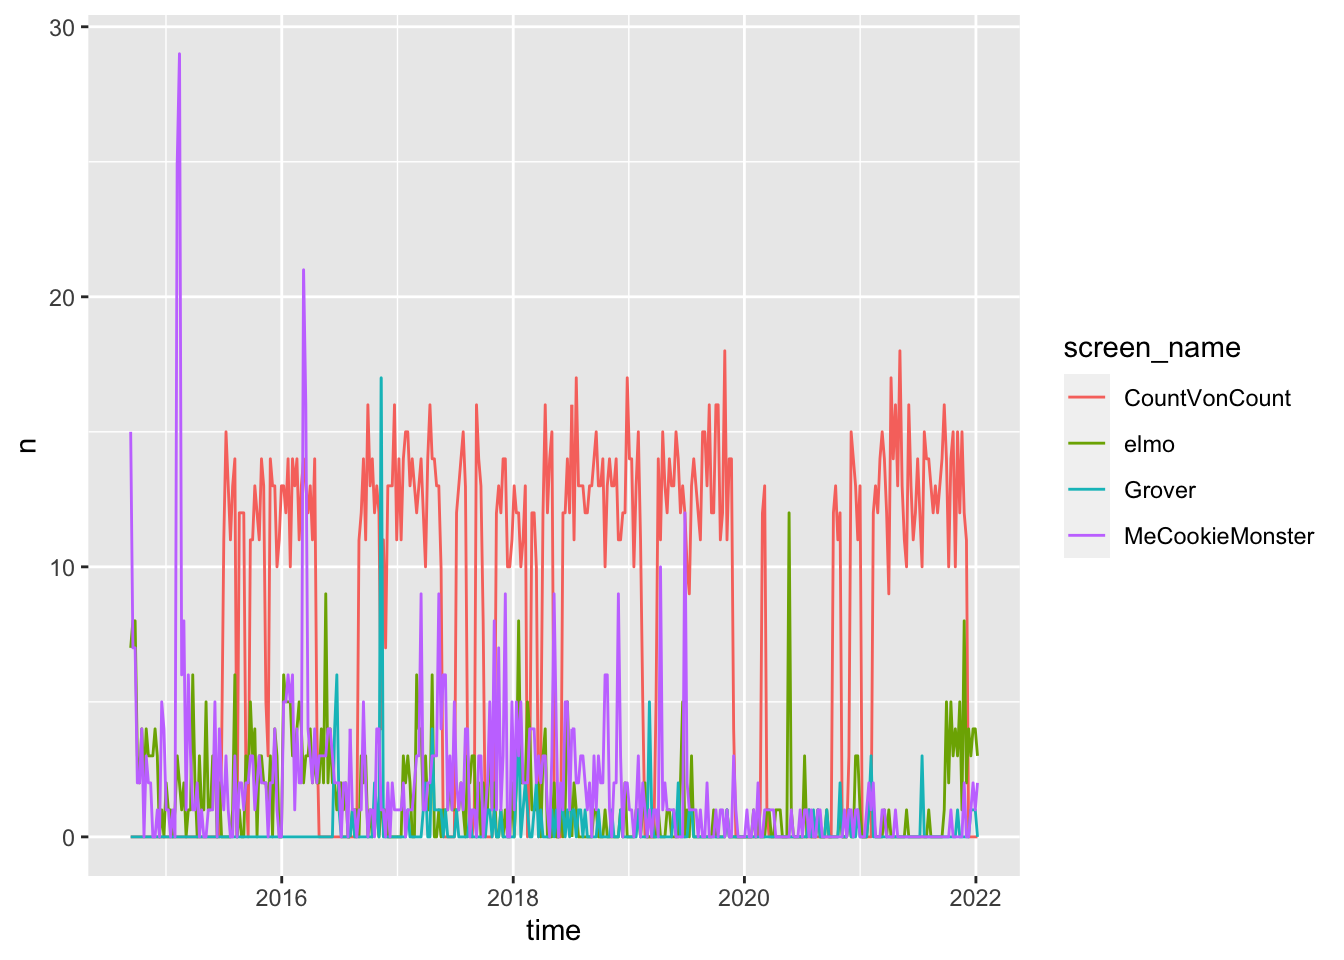
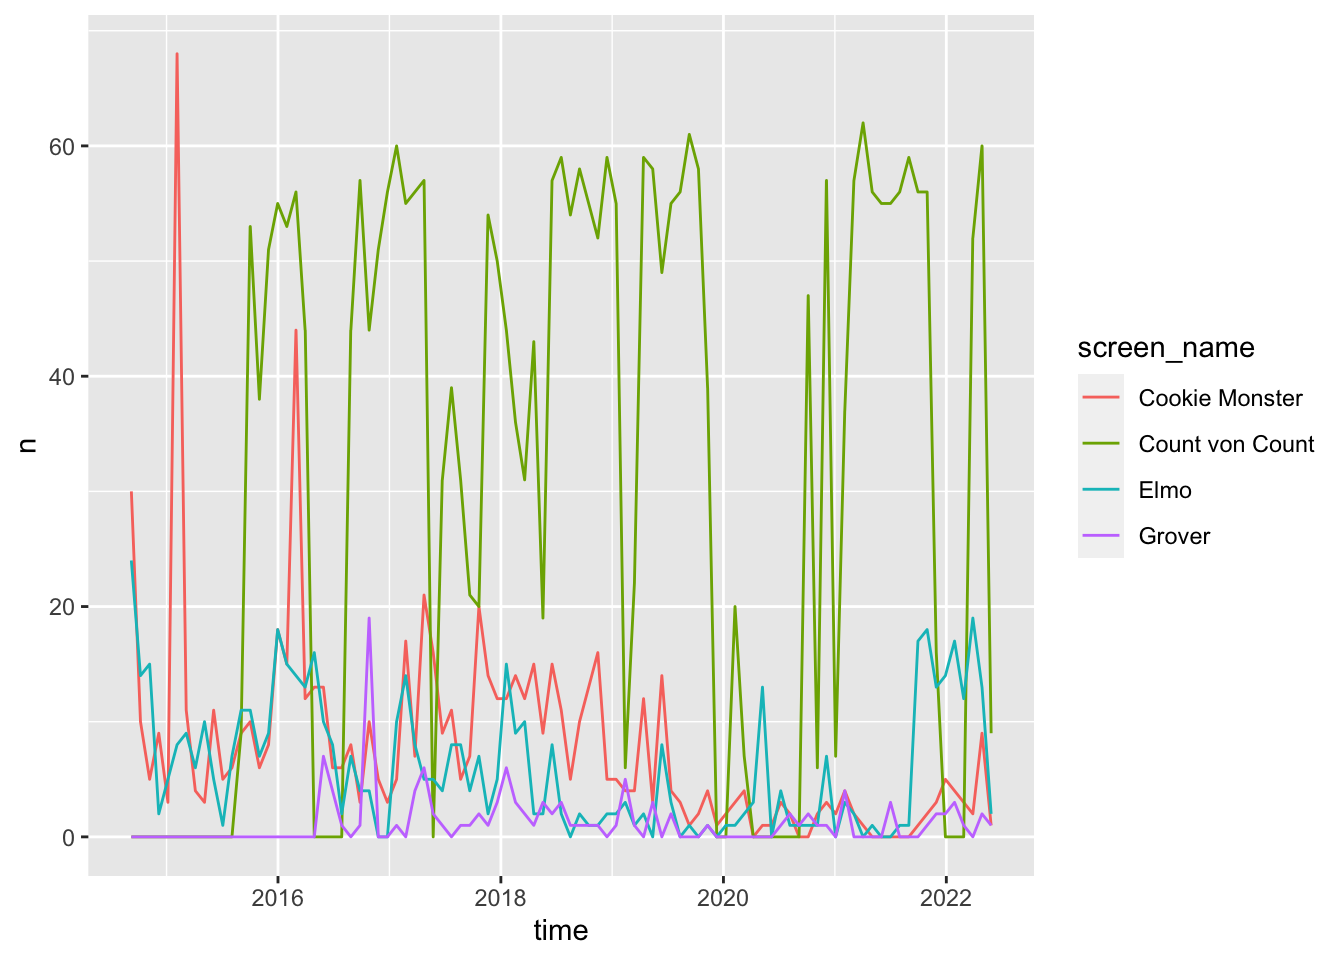
Fix twitter example on intro slides for new rtweet version

diff --git a/static/slides/introduction-to-computing-for-the-social-sciences/index.html b/static/slides/introduction-to-computing-for-the-social-sciences/index.html
@@ -11,8 +11,12 @@
     <textarea id="source">
 class: center, middle, inverse, title-slide
 
+.title[
 # Introduction to Computing for the Social Sciences
+]
+.author[
 ### MACS 30500 <br /> University of Chicago
+]
 
 ---
 
@@ -398,14 +402,20 @@ class: middle
 ```r
 library(tidyverse)
 library(rtweet)
-data &lt;- get_timeline(c("MeCookieMonster", "Grover", "elmo", "CountVonCount"), 3000)
-ts_plot(data, "weeks")
+tml1 &lt;- get_timeline("MeCookieMonster", 3000)
+tml2 &lt;- get_timeline("Grover", 3000)
+tml3 &lt;- get_timeline("elmo", 3000)
+tml4 &lt;- get_timeline("CountVonCount", 3000)
+ts_plot(group_by(bind_rows(select(tml1, created_at), select(tml2, created_at), select(tml3, created_at), select(tml4, created_at), .id = "screen_name"), screen_name), by = "months")
 ```
 
 ---
 
 # Good code
 
+
+
+.tiny[
 
 ```r
 # get_to_sesame_street.R
@@ -415,21 +425,45 @@ ts_plot(data, "weeks")
 library(tidyverse)
 library(rtweet)
 
-# retrieve most recent 3000 tweets of Sesame Street characters
-tmls &lt;- get_timeline(
-  user = c("MeCookieMonster", "Grover", "elmo", "CountVonCount"),
+# retrieve most recent 3000 tweets of best Sesame Street residents
+cookie &lt;- get_timeline(
+  user = "MeCookieMonster",
   n = 3000
 )
 
-# plot weekly tweet frequency
-ts_plot(tmls, by = "weeks")
+grover &lt;- get_timeline(
+  user = "Grover",
+  n = 3000
+)
+
+elmo &lt;- get_timeline(
+  user = "elmo",
+  n = 3000
+)
+
+count_von_count &lt;- get_timeline(
+  user = "CountVonCount",
+  n = 3000
+)
+
+# combine, group by character, and plot weekly tweet frequency
+bind_rows(
+  `Cookie Monster` = cookie %&gt;% select(created_at),
+  Grover = grover %&gt;% select(created_at),
+  Elmo = elmo %&gt;% select(created_at),
+  `Count von Count` = count_von_count %&gt;% select(created_at),
+  .id = "screen_name"
+) %&gt;%
+  group_by(screen_name) %&gt;%
+  ts_plot(by = "months")
 ```
+]
 
 ---
 
 # Good code
 
-&lt;img src="index_files/figure-html/sesame-good-1.png" width="80%" style="display: block; margin: auto;" /&gt;
+&lt;img src="index_files/figure-html/unnamed-chunk-5-1.png" width="80%" style="display: block; margin: auto;" /&gt;
 
 ---
 
@@ -487,6 +521,19 @@ if (window.HTMLWidgets) slideshow.on('afterShowSlide', function (slide) {
     deleted = true;
   });
 })();
+// add `data-at-shortcutkeys` attribute to <body> to resolve conflicts with JAWS
+// screen reader (see PR #262)
+(function(d) {
+  let res = {};
+  d.querySelectorAll('.remark-help-content table tr').forEach(tr => {
+    const t = tr.querySelector('td:nth-child(2)').innerText;
+    tr.querySelectorAll('td:first-child .key').forEach(key => {
+      const k = key.innerText;
+      if (/^[a-z]$/.test(k)) res[k] = t;  // must be a single letter (key)
+    });
+  });
+  d.body.setAttribute('data-at-shortcutkeys', JSON.stringify(res));
+})(document);
 (function() {
   "use strict"
   // Replace <script> tags in slides area to make them executable

diff --git a/content/notes/intro-to-course/index.md b/content/notes/intro-to-course/index.md
@@ -325,8 +325,11 @@ This is an example of badly documented code.
 ```r
 library(tidyverse)
 library(rtweet)
-tmls <- get_timeline(c("MeCookieMonster", "Grover", "elmo", "CountVonCount"), 3000)
-ts_plot(group_by(tmls, screen_name), "weeks")
+tml1 <- get_timeline("MeCookieMonster", 3000)
+tml2 <- get_timeline("Grover", 3000)
+tml3 <- get_timeline("elmo", 3000)
+tml4 <- get_timeline("CountVonCount", 3000)
+ts_plot(group_by(bind_rows(select(tml1, created_at), select(tml2, created_at), select(tml3, created_at), select(tml4, created_at), .id = "screen_name"), screen_name), by = "months")
 ```
 
 * What does this program do?
@@ -340,6 +343,8 @@ This program, although it works, is entirely indecipherable unless you are the o
 This is a rewritten version of the previous program. Note that it does the exact same thing, but is much more comprehensible.
 
 
+
+
 ```r
 # get_to_sesame_street.R
 # Program to retrieve recent tweets from Sesame Street characters
@@ -348,16 +353,37 @@ This is a rewritten version of the previous program. Note that it does the exact
 library(tidyverse)
 library(rtweet)
 
-# retrieve most recent 3000 tweets of Sesame Street characters
-tmls <- get_timeline(
-  user = c("MeCookieMonster", "Grover", "elmo", "CountVonCount"),
+# retrieve most recent 3000 tweets of best Sesame Street residents
+cookie <- get_timeline(
+  user = "MeCookieMonster",
   n = 3000
 )
 
-# group by character and plot weekly tweet frequency
-tmls %>%
+grover <- get_timeline(
+  user = "Grover",
+  n = 3000
+)
+
+elmo <- get_timeline(
+  user = "elmo",
+  n = 3000
+)
+
+count_von_count <- get_timeline(
+  user = "CountVonCount",
+  n = 3000
+)
+
+# combine, group by character, and plot weekly tweet frequency
+bind_rows(
+  `Cookie Monster` = cookie %>% select(created_at),
+  Grover = grover %>% select(created_at),
+  Elmo = elmo %>% select(created_at),
+  `Count von Count` = count_von_count %>% select(created_at),
+  .id = "screen_name"
+) %>%
   group_by(screen_name) %>%
-  ts_plot(by = "weeks")
+  ts_plot(by = "months")
 ```
 
 <img src="{{< blogdown/postref >}}index_files/figure-html/sesame-good-1.png" width="672" />
@@ -374,110 +400,107 @@ devtools::session_info()
 ## ─ Session info ───────────────────────────────────────────────────────────────
 ##  setting  value
 ##  version  R version 4.1.2 (2021-11-01)
-##  os       macOS Big Sur 11.6
+##  os       macOS Monterey 12.2.1
 ##  system   aarch64, darwin20
 ##  ui       X11
 ##  language (EN)
 ##  collate  en_US.UTF-8
 ##  ctype    en_US.UTF-8
 ##  tz       America/Chicago
-##  date     2022-01-10
-##  pandoc   2.14.2 @ /usr/local/bin/ (via rmarkdown)
+##  date     2022-06-01
+##  pandoc   2.17.1.1 @ /Applications/RStudio.app/Contents/MacOS/quarto/bin/ (via rmarkdown)
 ## 
 ## ─ Packages ───────────────────────────────────────────────────────────────────
-##  package        * version date (UTC) lib source
-##  askpass          1.1     2019-01-13 [1] CRAN (R 4.1.0)
-##  assertthat       0.2.1   2019-03-21 [1] CRAN (R 4.1.0)
-##  backports        1.4.1   2021-12-13 [1] CRAN (R 4.1.1)
-##  blogdown         1.7     2021-12-19 [1] CRAN (R 4.1.1)
-##  bookdown         0.24    2021-09-02 [1] CRAN (R 4.1.1)
-##  broom          * 0.7.11  2022-01-03 [1] CRAN (R 4.1.2)
-##  bslib            0.3.1   2021-10-06 [1] CRAN (R 4.1.1)
-##  cachem           1.0.6   2021-08-19 [1] CRAN (R 4.1.1)
-##  callr            3.7.0   2021-04-20 [1] CRAN (R 4.1.0)
-##  cellranger       1.1.0   2016-07-27 [1] CRAN (R 4.1.0)
-##  cli              3.1.0   2021-10-27 [1] CRAN (R 4.1.1)
-##  codetools        0.2-18  2020-11-04 [1] CRAN (R 4.1.2)
-##  colorspace       2.0-2   2021-06-24 [1] CRAN (R 4.1.1)
-##  crayon           1.4.2   2021-10-29 [1] CRAN (R 4.1.1)
-##  curl             4.3.2   2021-06-23 [1] CRAN (R 4.1.0)
-##  DBI              1.1.2   2021-12-20 [1] CRAN (R 4.1.1)
-##  dbplyr           2.1.1   2021-04-06 [1] CRAN (R 4.1.0)
-##  desc             1.4.0   2021-09-28 [1] CRAN (R 4.1.1)
-##  devtools         2.4.3   2021-11-30 [1] CRAN (R 4.1.1)
-##  digest           0.6.29  2021-12-01 [1] CRAN (R 4.1.1)
-##  dplyr          * 1.0.7   2021-06-18 [1] CRAN (R 4.1.0)
-##  ellipsis         0.3.2   2021-04-29 [1] CRAN (R 4.1.0)
-##  evaluate         0.14    2019-05-28 [1] CRAN (R 4.1.0)
-##  fansi            0.5.0   2021-05-25 [1] CRAN (R 4.1.0)
-##  farver           2.1.0   2021-02-28 [1] CRAN (R 4.1.0)
-##  fastmap          1.1.0   2021-01-25 [1] CRAN (R 4.1.0)
-##  forcats        * 0.5.1   2021-01-27 [1] CRAN (R 4.1.1)
-##  fs               1.5.2   2021-12-08 [1] CRAN (R 4.1.1)
-##  generics         0.1.1   2021-10-25 [1] CRAN (R 4.1.1)
-##  ggplot2        * 3.3.5   2021-06-25 [1] CRAN (R 4.1.1)
-##  glue             1.6.0   2021-12-17 [1] CRAN (R 4.1.1)
-##  gtable           0.3.0   2019-03-25 [1] CRAN (R 4.1.1)
-##  haven            2.4.3   2021-08-04 [1] CRAN (R 4.1.1)
-##  here             1.0.1   2020-12-13 [1] CRAN (R 4.1.0)
-##  highr            0.9     2021-04-16 [1] CRAN (R 4.1.0)
-##  hms              1.1.1   2021-09-26 [1] CRAN (R 4.1.1)
-##  htmltools        0.5.2   2021-08-25 [1] CRAN (R 4.1.1)
-##  httr             1.4.2   2020-07-20 [1] CRAN (R 4.1.0)
-##  jquerylib        0.1.4   2021-04-26 [1] CRAN (R 4.1.0)
-##  jsonlite         1.7.2   2020-12-09 [1] CRAN (R 4.1.0)
-##  knitr            1.37    2021-12-16 [1] CRAN (R 4.1.1)
-##  labeling         0.4.2   2020-10-20 [1] CRAN (R 4.1.0)
-##  lattice          0.20-45 2021-09-22 [1] CRAN (R 4.1.2)
-##  lifecycle        1.0.1   2021-09-24 [1] CRAN (R 4.1.1)
-##  lubridate        1.8.0   2021-10-07 [1] CRAN (R 4.1.1)
-##  magrittr         2.0.1   2020-11-17 [1] CRAN (R 4.1.0)
-##  Matrix           1.3-4   2021-06-01 [1] CRAN (R 4.1.2)
-##  memoise          2.0.1   2021-11-26 [1] CRAN (R 4.1.1)
-##  mgcv             1.8-38  2021-10-06 [1] CRAN (R 4.1.2)
-##  modelr           0.1.8   2020-05-19 [1] CRAN (R 4.1.0)
-##  munsell          0.5.0   2018-06-12 [1] CRAN (R 4.1.0)
-##  nlme             3.1-153 2021-09-07 [1] CRAN (R 4.1.2)
-##  openssl          1.4.6   2021-12-19 [1] CRAN (R 4.1.1)
-##  palmerpenguins * 0.1.0   2020-07-23 [1] CRAN (R 4.1.0)
-##  pillar           1.6.4   2021-10-18 [1] CRAN (R 4.1.1)
-##  pkgbuild         1.3.1   2021-12-20 [1] CRAN (R 4.1.1)
-##  pkgconfig        2.0.3   2019-09-22 [1] CRAN (R 4.1.0)
-##  pkgload          1.2.4   2021-11-30 [1] CRAN (R 4.1.1)
-##  prettyunits      1.1.1   2020-01-24 [1] CRAN (R 4.1.0)
-##  processx         3.5.2   2021-04-30 [1] CRAN (R 4.1.0)
-##  ps               1.6.0   2021-02-28 [1] CRAN (R 4.1.0)
-##  purrr          * 0.3.4   2020-04-17 [1] CRAN (R 4.1.0)
-##  R6               2.5.1   2021-08-19 [1] CRAN (R 4.1.1)
-##  Rcpp             1.0.7   2021-07-07 [1] CRAN (R 4.1.0)
-##  readr          * 2.1.1   2021-11-30 [1] CRAN (R 4.1.1)
-##  readxl           1.3.1   2019-03-13 [1] CRAN (R 4.1.0)
-##  remotes          2.4.2   2021-11-30 [1] CRAN (R 4.1.1)
-##  reprex           2.0.1   2021-08-05 [1] CRAN (R 4.1.1)
-##  rlang            0.4.12  2021-10-18 [1] CRAN (R 4.1.1)
-##  rmarkdown        2.11    2021-09-14 [1] CRAN (R 4.1.1)
-##  rprojroot        2.0.2   2020-11-15 [1] CRAN (R 4.1.0)
-##  rstudioapi       0.13    2020-11-12 [1] CRAN (R 4.1.0)
-##  rtweet         * 0.7.0   2020-01-08 [1] CRAN (R 4.1.0)
-##  rvest            1.0.2   2021-10-16 [1] CRAN (R 4.1.1)
-##  sass             0.4.0   2021-05-12 [1] CRAN (R 4.1.0)
-##  scales           1.1.1   2020-05-11 [1] CRAN (R 4.1.0)
-##  sessioninfo      1.2.2   2021-12-06 [1] CRAN (R 4.1.1)
-##  stringi          1.7.6   2021-11-29 [1] CRAN (R 4.1.1)
-##  stringr        * 1.4.0   2019-02-10 [1] CRAN (R 4.1.1)
-##  testthat         3.1.1   2021-12-03 [1] CRAN (R 4.1.1)
-##  tibble         * 3.1.6   2021-11-07 [1] CRAN (R 4.1.1)
-##  tidyr          * 1.1.4   2021-09-27 [1] CRAN (R 4.1.1)
-##  tidyselect       1.1.1   2021-04-30 [1] CRAN (R 4.1.0)
-##  tidyverse      * 1.3.1   2021-04-15 [1] CRAN (R 4.1.0)
-##  tzdb             0.2.0   2021-10-27 [1] CRAN (R 4.1.1)
-##  usethis          2.1.5   2021-12-09 [1] CRAN (R 4.1.1)
-##  utf8             1.2.2   2021-07-24 [1] CRAN (R 4.1.0)
-##  vctrs            0.3.8   2021-04-29 [1] CRAN (R 4.1.0)
-##  withr            2.4.3   2021-11-30 [1] CRAN (R 4.1.1)
-##  xfun             0.29    2021-12-14 [1] CRAN (R 4.1.1)
-##  xml2             1.3.3   2021-11-30 [1] CRAN (R 4.1.1)
-##  yaml             2.2.1   2020-02-01 [1] CRAN (R 4.1.0)
+##  package        * version    date (UTC) lib source
+##  assertthat       0.2.1      2019-03-21 [1] CRAN (R 4.1.0)
+##  backports        1.4.1      2021-12-13 [1] CRAN (R 4.1.1)
+##  bit              4.0.4      2020-08-04 [1] CRAN (R 4.1.1)
+##  bit64            4.0.5      2020-08-30 [1] CRAN (R 4.1.0)
+##  blogdown         1.10       2022-05-10 [1] CRAN (R 4.1.1)
+##  bookdown         0.26       2022-04-15 [1] CRAN (R 4.1.1)
+##  brio             1.1.3      2021-11-30 [1] CRAN (R 4.1.1)
+##  broom          * 0.8.0      2022-04-13 [1] CRAN (R 4.1.1)
+##  bslib            0.3.1      2021-10-06 [1] CRAN (R 4.1.1)
+##  cachem           1.0.6      2021-08-19 [1] CRAN (R 4.1.1)
+##  callr            3.7.0      2021-04-20 [1] CRAN (R 4.1.0)
+##  cellranger       1.1.0      2016-07-27 [1] CRAN (R 4.1.0)
+##  cli              3.3.0      2022-04-25 [1] CRAN (R 4.1.1)
+##  codetools        0.2-18     2020-11-04 [1] CRAN (R 4.1.2)
+##  colorspace       2.0-3      2022-02-21 [1] CRAN (R 4.1.1)
+##  crayon           1.5.1      2022-03-26 [1] CRAN (R 4.1.2)
+##  curl             4.3.2      2021-06-23 [1] CRAN (R 4.1.0)
+##  DBI              1.1.2      2021-12-20 [1] CRAN (R 4.1.1)
+##  dbplyr           2.1.1      2021-04-06 [1] CRAN (R 4.1.0)
+##  desc             1.4.1      2022-03-06 [1] CRAN (R 4.1.1)
+##  devtools         2.4.3      2021-11-30 [1] CRAN (R 4.1.1)
+##  digest           0.6.29     2021-12-01 [1] CRAN (R 4.1.1)
+##  dplyr          * 1.0.9      2022-04-28 [1] CRAN (R 4.1.1)
+##  ellipsis         0.3.2      2021-04-29 [1] CRAN (R 4.1.0)
+##  evaluate         0.15       2022-02-18 [1] CRAN (R 4.1.1)
+##  fansi            1.0.3      2022-03-24 [1] CRAN (R 4.1.1)
+##  farver           2.1.0      2021-02-28 [1] CRAN (R 4.1.0)
+##  fastmap          1.1.0      2021-01-25 [1] CRAN (R 4.1.0)
+##  forcats        * 0.5.1      2021-01-27 [1] CRAN (R 4.1.1)
+##  fs               1.5.2      2021-12-08 [1] CRAN (R 4.1.1)
+##  generics         0.1.2      2022-01-31 [1] CRAN (R 4.1.1)
+##  ggplot2        * 3.3.6      2022-05-03 [1] CRAN (R 4.1.1)
+##  glue             1.6.2      2022-02-24 [1] CRAN (R 4.1.1)
+##  gtable           0.3.0      2019-03-25 [1] CRAN (R 4.1.1)
+##  haven            2.5.0      2022-04-15 [1] CRAN (R 4.1.1)
+##  here             1.0.1      2020-12-13 [1] CRAN (R 4.1.0)
+##  highr            0.9        2021-04-16 [1] CRAN (R 4.1.0)
+##  hms              1.1.1      2021-09-26 [1] CRAN (R 4.1.1)
+##  htmltools        0.5.2      2021-08-25 [1] CRAN (R 4.1.1)
+##  httr             1.4.3      2022-05-04 [1] CRAN (R 4.1.1)
+##  jquerylib        0.1.4      2021-04-26 [1] CRAN (R 4.1.0)
+##  jsonlite         1.8.0      2022-02-22 [1] CRAN (R 4.1.1)
+##  knitr            1.39       2022-04-26 [1] CRAN (R 4.1.1)
+##  labeling         0.4.2      2020-10-20 [1] CRAN (R 4.1.0)
+##  lifecycle        1.0.1      2021-09-24 [1] CRAN (R 4.1.1)
+##  lubridate        1.8.0      2021-10-07 [1] CRAN (R 4.1.1)
+##  magrittr         2.0.3      2022-03-30 [1] CRAN (R 4.1.1)
+##  memoise          2.0.1      2021-11-26 [1] CRAN (R 4.1.1)
+##  modelr           0.1.8      2020-05-19 [1] CRAN (R 4.1.0)
+##  munsell          0.5.0      2018-06-12 [1] CRAN (R 4.1.0)
+##  palmerpenguins * 0.1.0      2020-07-23 [1] CRAN (R 4.1.0)
+##  pillar           1.7.0      2022-02-01 [1] CRAN (R 4.1.1)
+##  pkgbuild         1.3.1      2021-12-20 [1] CRAN (R 4.1.1)
+##  pkgconfig        2.0.3      2019-09-22 [1] CRAN (R 4.1.0)
+##  pkgload          1.2.4      2021-11-30 [1] CRAN (R 4.1.1)
+##  prettyunits      1.1.1      2020-01-24 [1] CRAN (R 4.1.0)
+##  processx         3.5.3      2022-03-25 [1] CRAN (R 4.1.1)
+##  progress         1.2.2      2019-05-16 [1] CRAN (R 4.1.0)
+##  ps               1.7.0      2022-04-23 [1] CRAN (R 4.1.1)
+##  purrr          * 0.3.4      2020-04-17 [1] CRAN (R 4.1.0)
+##  R6               2.5.1      2021-08-19 [1] CRAN (R 4.1.1)
+##  readr          * 2.1.2      2022-01-30 [1] CRAN (R 4.1.1)
+##  readxl           1.4.0      2022-03-28 [1] CRAN (R 4.1.1)
+##  remotes          2.4.2      2021-11-30 [1] CRAN (R 4.1.1)
+##  reprex           2.0.1      2021-08-05 [1] CRAN (R 4.1.1)
+##  rlang            1.0.2      2022-03-04 [1] CRAN (R 4.1.1)
+##  rmarkdown        2.14       2022-04-25 [1] CRAN (R 4.1.1)
+##  rprojroot        2.0.3      2022-04-02 [1] CRAN (R 4.1.1)
+##  rstudioapi       0.13       2020-11-12 [1] CRAN (R 4.1.0)
+##  rtweet         * 0.7.0.9017 2022-04-01 [1] Github (ropensci/rtweet@bee9b18)
+##  rvest            1.0.2      2021-10-16 [1] CRAN (R 4.1.1)
+##  sass             0.4.1      2022-03-23 [1] CRAN (R 4.1.1)
+##  scales           1.2.0      2022-04-13 [1] CRAN (R 4.1.2)
+##  sessioninfo      1.2.2      2021-12-06 [1] CRAN (R 4.1.1)
+##  stringi          1.7.6      2021-11-29 [1] CRAN (R 4.1.1)
+##  stringr        * 1.4.0      2019-02-10 [1] CRAN (R 4.1.1)
+##  testthat         3.1.4      2022-04-26 [1] CRAN (R 4.1.1)
+##  tibble         * 3.1.7      2022-05-03 [1] CRAN (R 4.1.1)
+##  tidyr          * 1.2.0      2022-02-01 [1] CRAN (R 4.1.1)
+##  tidyselect       1.1.2      2022-02-21 [1] CRAN (R 4.1.1)
+##  tidyverse      * 1.3.1      2021-04-15 [1] CRAN (R 4.1.0)
+##  tzdb             0.3.0      2022-03-28 [1] CRAN (R 4.1.1)
+##  usethis          2.1.5      2021-12-09 [1] CRAN (R 4.1.1)
+##  utf8             1.2.2      2021-07-24 [1] CRAN (R 4.1.0)
+##  vctrs            0.4.1      2022-04-13 [1] CRAN (R 4.1.1)
+##  withr            2.5.0      2022-03-03 [1] CRAN (R 4.1.1)
+##  xfun             0.31       2022-05-10 [1] CRAN (R 4.1.1)
+##  xml2             1.3.3      2021-11-30 [1] CRAN (R 4.1.1)
+##  yaml             2.3.5      2022-02-21 [1] CRAN (R 4.1.1)
 ## 
 ##  [1] /Library/Frameworks/R.framework/Versions/4.1-arm64/Resources/library
 ## 
